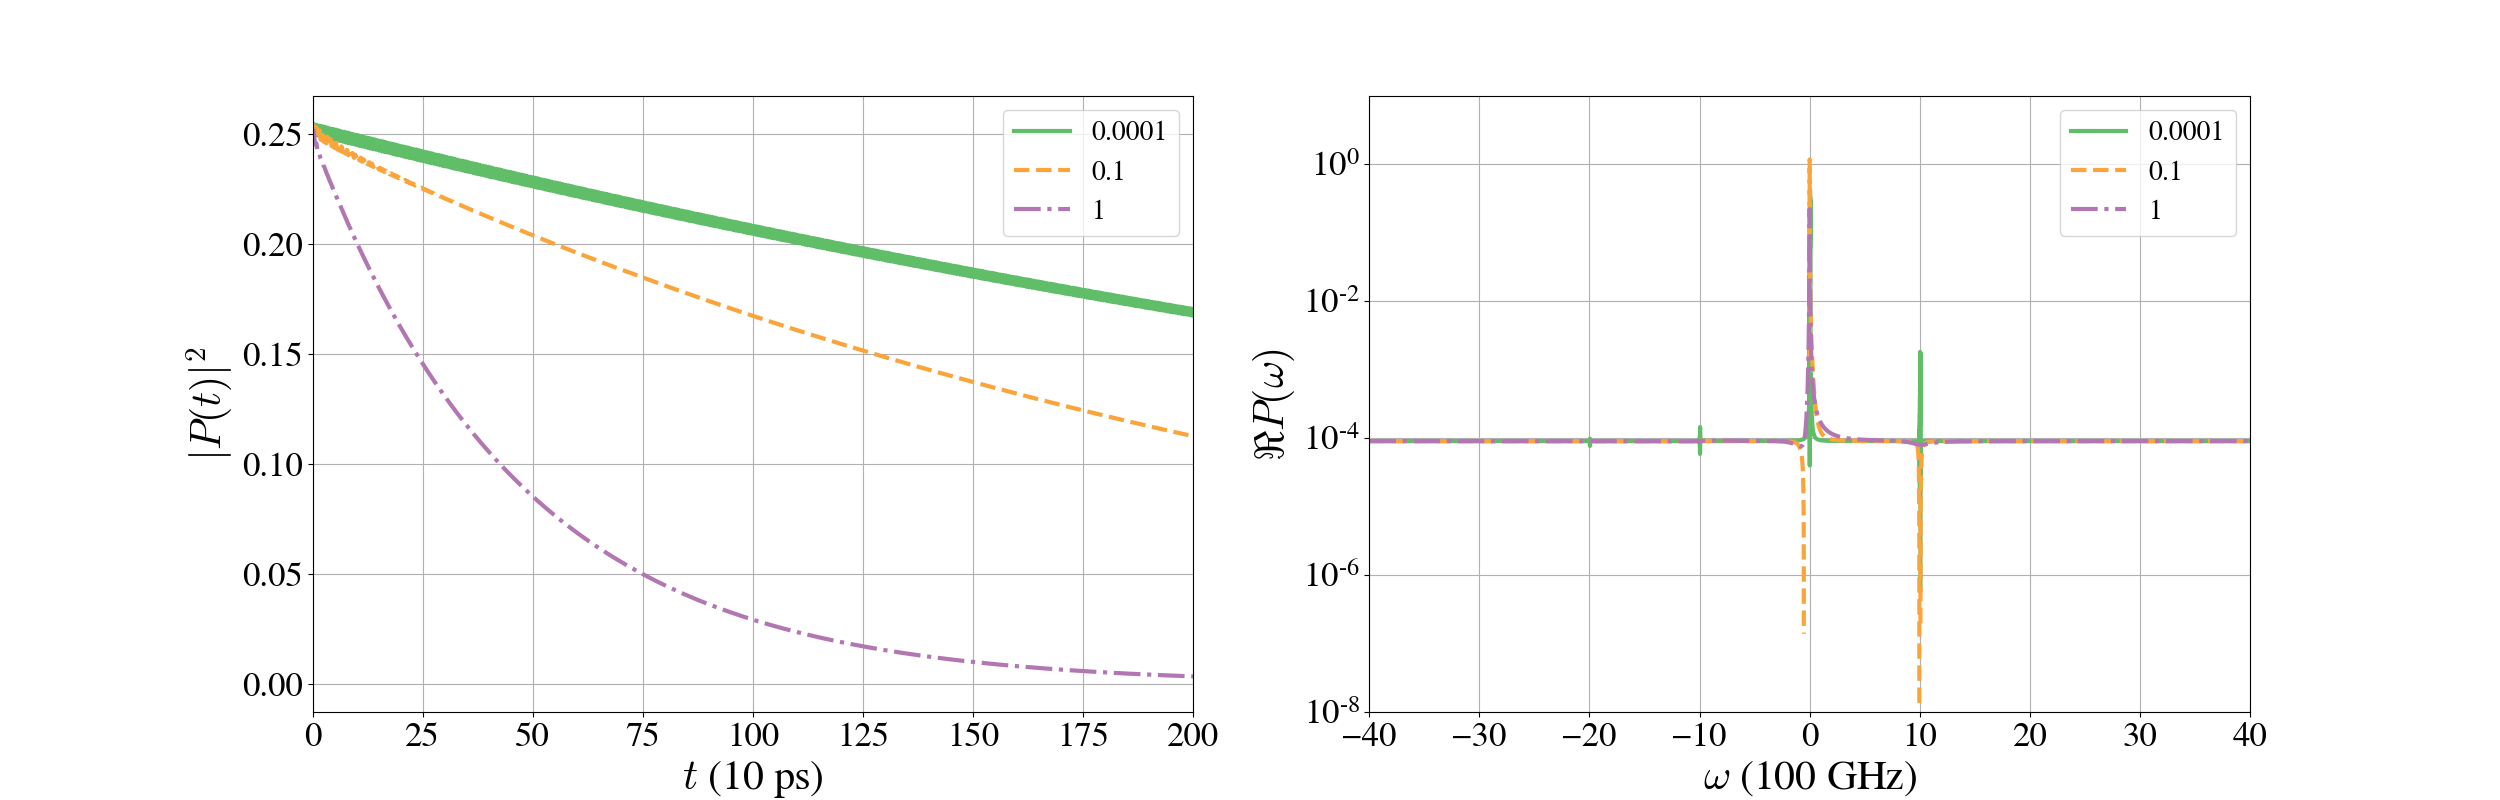
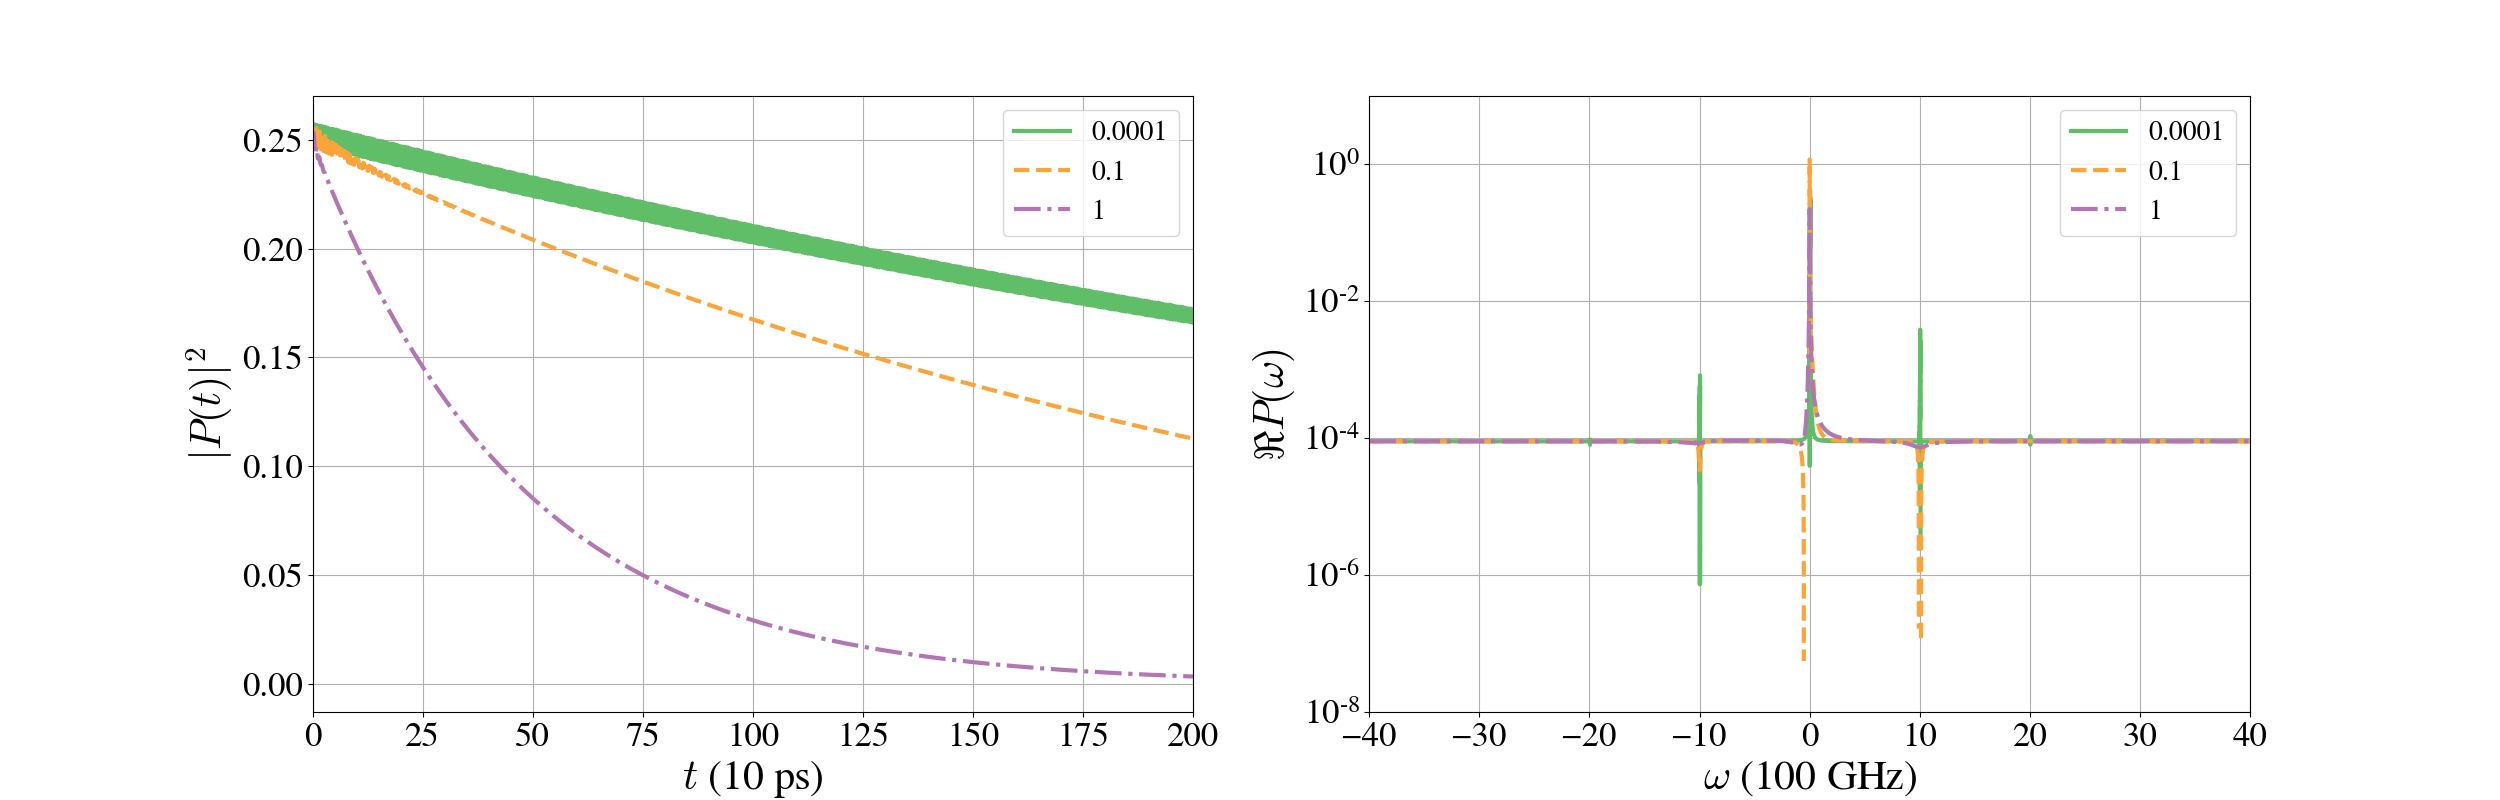
forgotten GkNk in phi

diff --git a/fbm_fbTest.py b/fbm_fbTest.py
@@ -1,6 +1,6 @@
 #!/usr/bin/python3.4
 import matplotlib as mpl
-mpl.use('Agg')
+#mpl.use('Agg')
 import numpy as np
 import matplotlib.pyplot as plt
 import time
@@ -33,7 +33,7 @@ def rho_fb(D, gam, oma, kappa, nd, endt, Nt, tau, k, therm, Fock):
 	dk  = k[1]-k[0]
 	c   = 0.003
 	g0  = np.sqrt(kappa*2*c/np.pi)
-	gk  = g0*np.sin(k*c*tau*dt)
+	gk  = g0#*np.sin(k*c*tau*dt)
 	A   = -1j*c*k
 	B   = 1j*oma + kappa
 	Br  = 1/B
@@ -91,29 +91,31 @@ def rho_fb(D, gam, oma, kappa, nd, endt, Nt, tau, k, therm, Fock):
 		rho_final[it] = .5 * np.exp( cav  + bath - 1j*Phi - gam*it*dt )				
 
 	t=np.linspace(0,endt,Nt)
-	print("cav",cav)
-	cavc = -.5*D**2/oma**2 * ( 1 + np.exp(-kappa*t[-1]) - 2*np.exp(-2*kappa*t[-1])*np.cos(oma*t[-1]) )
-	print("cavc", cavc)
-	print("F",F[-1])
-	Fc = D*np.exp(-B*t[-1])
-	print("Fc",Fc)
-	print("Gk",Gk)
-	Gkc = -1j*gk*D/(A+B) * ( np.exp(A*t[-1]) - np.exp(-B*t[-1]) )
-	print("Gkc",Gkc)
-	print("Nk",Nk)
+	print("t-tc",it*dt-t[-1])
+#	print("tc",t[-1])
+#	print("cav",cav)
+	cavc = -.5*D**2/oma**2 * ( 1 + np.exp(-2*kappa*t[-1]) - 2*np.exp(-kappa*t[-1])*np.cos(oma*t[-1]) )
+	print("cav-cavc", cav-cavc)
+#	print("F",F[-1])
+#	Fc = D*np.exp(-B*t[-1])
+#	print("F-Fc",F[-1]-Fc)
+#	print("Gk",Gk)
+#	Gkc = -1j*gk*D/(A+B) * ( np.exp(A*t[-1]) - np.exp(-B*t[-1]) )
+#	print("Gk-Gkc",Gk-Gkc)
+#	print("Nk",Nk)
 	Nkc = 1j*gk*D/(A*B) * ( 1 - 1/(A+B)*( A*np.exp(-B*t[-1])+B*np.exp(A*t[-1]) ) )
-	print("Nkc",Nkc)
+	print("Nk-Nkc",Nkc)
 	print("bath",bath)
 	integ = np.abs(D/B)**2*(2*kappa*t[-1] + (1-np.exp(-2*kappa*t[-1])) +2*kappa/np.abs(B)**2*(-2*kappa+np.conjugate(B)*np.exp(-B*t[-1])+B*np.exp(-np.conjugate(B)*t[-1])))
 	bathc=-integ
 	print("bathc",bathc)
-	Nka = np.abs(Nk)**2
-	print("Nka2",Nka)
-	Nkc2 = np.abs(g0*D/A/B)**2*( 1 - 1/np.abs(A+B)**2* ( np.abs(A)**2*(2*np.cos(oma*t[-1])-np.exp(-kappa*t[-1])) * np.exp(-kappa*t[-1]) +\
-							np.abs(B)**2*(2*np.cos(c*k*t[-1])-1)-\
-							2*oma*c*k*( ( np.cos(oma*t[-1])-np.cos((oma-c*k)*t[-1]))*np.exp(-kappa*t[-1] ) + np.cos(c*k*t[-1]) )-
-							2*kappa*c*k*( ( np.sin(oma*t[-1])-np.sin((oma-c*k)*t[-1]))*np.exp(-kappa*t[-1] ) - np.sin(c*k*t[-1]) ) ) )
-	print("Nkc2",Nkc2)
+#	Nka = np.abs(Nk)**2
+#	print("Nka2",Nka)
+#	Nkc2 = np.abs(gk*D/A/B)**2*( 1 - 1/np.abs(A+B)**2* ( np.abs(A)**2*(2*np.cos(oma*t[-1])-np.exp(-kappa*t[-1])) * np.exp(-kappa*t[-1]) +\
+#							np.abs(B)**2*(2*np.cos(c*k*t[-1])-1)-\
+#							2*oma*c*k*( ( np.cos(oma*t[-1])-np.cos((oma-c*k)*t[-1]))*np.exp(-kappa*t[-1] ) + np.cos(c*k*t[-1]) )-
+#							2*kappa*c*k*( ( np.sin(oma*t[-1])-np.sin((oma-c*k)*t[-1]))*np.exp(-kappa*t[-1] ) - np.sin(c*k*t[-1]) ) ) )
+#	print("Nkc2",Nkc2)
 	
 	print("phi",Phi)
 	phic = np.abs(D/B)**2 * ( np.exp(-kappa*t[-1])*np.sin(oma*t[-1]) - oma/2/kappa*(1-np.exp(-2*kappa*t[-1])) )
@@ -124,7 +126,7 @@ def rho_fb(D, gam, oma, kappa, nd, endt, Nt, tau, k, therm, Fock):
 ### PARAMETERS ###
 ##################
 Fock   = False
-show   = False
+show   = True
 
 D      = .7
 oma    = 10 #in GHz
@@ -134,12 +136,12 @@ hbar   = 6.62607004
 kb     = 1.38064852
 T      = 0.00001
 nd     = 1./(np.exp(hbar*oma/kb/T)-1)
-endt   = 20000.
-Nt     = 2**18
+endt   = 2000.
+Nt     = 2**15
 t      = np.linspace(0,endt,Nt)
 tau    = 10*Nt
 endk   = 5000.
-Nk     = 40000
+Nk     = 400
 ome    = 0.
 k      = np.linspace(-endk,endk,Nk)# + ome*100.
 therm  = hbar/(kb*T)

diff --git a/fbm_Fock-therm_numeric.py b/fbm_Fock-therm_numeric.py
@@ -39,17 +39,30 @@ def rho_d(gd, gam, oma, kappa, nd, endt, Nt, k, therm, Fock):
 	#################
 	### |N_d^k|^2 ###
 	#################
-	def Nd2k(k,ex,Ca,Sa):
+	def Nd2k(k,ex,Ca,Sa,Ck,Sk,Cak,Sak):
 
 		cof = coef*g02/(c*k)**2
 		den = 1/(kappa**2+(oma-c*k)**2)
-		Ck  = np.cos(c*k*t)
-		Sk  = np.sin(c*k*t)
 		A2  = (c*k)**2 * (2*Ca-ex) * ex
 		B2  = (kappa**2+oma**2) * (2*Ck-1)
-		AB  = oma*(Ck+(Ca-Ca*Ck-Sk*Sa)*ex) + kappa*(-Sk+(Sa-Sa*Ck+Sk*Ca)*ex)
+		AB  = oma*(Ck+(Ca-Cak)*ex) + kappa*(-Sk+(Sa-Sak)*ex)
 
 		return cof * ( 1 - den*(A2 + B2 - 2*c*k*AB) )
+
+	def phif(k,ex,Ca,Sa,Ck,Sk,Cak,Sak):
+
+		den = 1/np.abs(B-1j*c*k)**2
+		Ck  = np.cos(c*k*t)
+		Sk  = np.sin(c*k*t)
+		dc  = 1/(c*k)
+		dB  = 1/np.abs(B)**2 
+		t1  = -dc**2*(c*k*t-Sk)
+		t2  = dB * ( dc*(kappa*Sk-oma*Ck-(kappa*Sa+oma*Ca)*ex) \
+			     +Sa*ex - oma/(2*kappa)*(1-ex) )
+		t3  = den*( dc * ( kappa+(kappa*Sak + (oma-c*k)*Cak)*ex ) +\
+			    dB * ( kappa*(2*oma-c*k)*(1-Cak*ex) - (kappa**2-oma*(oma-c*k))*Sak ) )
+		
+		return g02*gd**2*den * (t1+t2+t3)
 
 	nk = 1/(np.exp(therm*c*np.abs(k))-1)
 	
@@ -63,18 +76,22 @@ def rho_d(gd, gam, oma, kappa, nd, endt, Nt, k, therm, Fock):
 		ex   = np.exp(-kappa*t)
 		Ca   = np.cos(oma*t)
 		Sa   = np.sin(oma*t)
-
-		gamma2  = coef * ( 1 + ex**2 - 2*ex*Ca ) #|gamma|^2
-#		rho_cav = (1 + gamma2) * np.exp(- 0.5* gamma2)
+		Ck   = np.cos(c*k*t)
+		Sk   = np.sin(c*k*t)
+		Cak  = Ca*Ck+Sa*Sk
+		Sak  = Sa*Ck - Ca*Sk
+		Fg   = coef * ( Sa*ex + oma/(2*kappa)*(ex**2-1) )	
 		
-		ksum = np.sum(Nd2k(k,ex,Ca,Sa)*(2*nk+1)*dk)			
-#		rho_bath = np.exp(-.5*(ksum))
+		gamma2  = coef * ( 1 + ex**2 - 2*ex*Ca ) #|gamma|^2
+		
+		ksum_b = np.sum(Nd2k(k,ex,Ca,Sa,Ck,Sk,Cak,Sak)*(2*nk+1)*dk)
+		
+		ksum_p = np.sum(phif(k,ex,Ca,Sa,Ck,Sk,Cak,Sak)*dk)
 
-		rho_phi  = np.exp( -1j * coef * ( ex*Sa- oma/2/kappa*(1-ex**2) ) )
 		if Fock==True:
-			rho_final[it] = .5 * (1+gamma2) * np.exp( - 0.5*(gamma2+ksum) - 1j * coef * ( ex*Sa- oma/2/kappa*(1-ex**2) ) - 1j*ome*t - gam*t)
+			rho_final[it] = .5 * (1+gamma2) * np.exp( - 0.5*(gamma2+ksum_b) - 1j * (ksum_p+Fg) - 1j*ome*t - gam*t)
 		else:
-			rho_final[it] = .5 * np.exp( - 0.5*(gamma2*(2*nd+1)+ksum) - 1j * coef * ( ex*Sa- oma/2/kappa*(1-ex**2) ) - 1j*ome*t - gam*t)
+			rho_final[it] = .5 * np.exp( - 0.5*(gamma2*(2*nd+1)+ksum_b) - 1j * (ksum_p+Fg) - 1j*ome*t - gam*t)
 
 	return rho_final
 
@@ -93,7 +110,7 @@ kb     = 1.38064852
 T      = 3000.#00001
 nd     = 1./(np.exp(hbar*oma/kb/T)-1)
 endt   = 20000.
-Nt     = 2**18
+Nt     = 2**14
 t      = np.linspace(0,endt,Nt)
 endk   = 5000.
 Nk     = 10000

diff --git a/fbm_damped_analytic2.py b/fbm_damped_analytic2.py
@@ -22,7 +22,7 @@ def rho_damp_T(D, gamma, oma, kappa, nd, t):
 	B    = 1j*oma + kappa
 	dBa2 = 1/(oma**2 + kappa**2)
 
-	return np.exp(- D**2 * dBa2 * ( nd*(1+np.exp(-2*kappa*t)) + .5*(3-np.exp(-2*kappa*t)) + 1j*np.sin(oma*t)*np.exp(-kappa*t) - np.exp(-kappa*t)*np.cos(oma*t)*(1+2*nd) - 1j*oma/2/kappa*(1-np.exp(-2*kappa*t)) + 2*kappa*t + 2*kappa*dBa2*(-2*kappa+ B*np.exp(-np.conjugate(B)*t) + np.conjugate(B)*np.exp(-B*t))))* np.exp(-gamma*t)*.5
+	return np.exp(- D**2 * dBa2 * ( nd*(1+np.exp(-2*kappa*t)) + .5*(3-np.exp(-2*kappa*t)) + 1j*(oma**2-3*kappa**2)*dBa2*np.sin(oma*t)*np.exp(-kappa*t) - np.exp(-kappa*t)*np.cos(oma*t)*(1+2*nd+1j*4*oma*kappa*dBa2) - 1j*oma/2/kappa*(1-np.exp(-2*kappa*t)) + 2*kappa*t + 2*kappa*dBa2*(-2*np.conjugate(B)+ B*np.exp(-np.conjugate(B)*t) + np.conjugate(B)*np.exp(-B*t))))* np.exp(-gamma*t)*.5
 #	return np.exp(-D**2*dBa2*(.5*(1-1j*oma/kappa)*(1-np.exp(-2*kappa*t))+1j*np.exp(-kappa*t)*np.sin(oma*t)-np.exp(-kappa*t)*np.cos(oma*t)-dBa2*(oma**2-3*kappa**2+2*kappa*(B*np.exp(-np.conjugate(B)*t)+np.conjugate(B)*np.exp(-B*t)))))*.5*np.exp(-gamma*t)
 
 def rho_damp_F(D, gamma, oma, kappa, nd, t):
@@ -31,9 +31,9 @@ def rho_damp_F(D, gamma, oma, kappa, nd, t):
 	dBa2 = 1/(oma**2 + kappa**2)
 
 	return (1 + D**2*dBa2*( 1+np.exp(-2*kappa*t)-np.exp(-kappa*t)*2*np.cos(oma*t) )) * \
-	np.exp(- D**2 * dBa2 * ( .5*(3-np.exp(-2*kappa*t)) + 1j*np.sin(oma*t)*np.exp(-kappa*t) - \
-	np.exp(-kappa*t)*np.cos(oma*t) - 1j*oma/2/kappa*(1-np.exp(-2*kappa*t)) + 2*kappa*t + \
-	2*kappa*dBa2*(-2*kappa+ B*np.exp(-np.conjugate(B)*t) + np.conjugate(B)*np.exp(-B*t))))* np.exp(-gamma*t)*.5
+	np.exp(- D**2 * dBa2 * ( .5*(3-np.exp(-2*kappa*t)) + 1j*(oma**2-3*kappa**2)*dBa2*np.sin(oma*t)*np.exp(-kappa*t) - \
+	np.exp(-kappa*t)*np.cos(oma*t)*1j*4*oma*kappa*dBa2 - 1j*oma/2/kappa*(1-np.exp(-2*kappa*t)) + 2*kappa*t + \
+	2*kappa*dBa2*(-2*np.conjugate(B)+ B*np.exp(-np.conjugate(B)*t) + np.conjugate(B)*np.exp(-B*t))))* np.exp(-gamma*t)*.5
 
 def rho_nodamp_T(D, gamma, oma,nd, t):
 	return np.exp(-D**2/oma**2*((2*nd+1)*(1-np.cos(oma*t))+1j*np.sin(oma*t)-1j*oma*t))*.5*np.exp(-gamma*t)
@@ -44,8 +44,8 @@ def rho_nodamp_F(D, gamma, oma,nd, t):
 ##################
 ### PARAMETERS ###
 ##################
-damp  = False
-Fock  = True
+damp  = True
+Fock  = False
 show  = False
 T     = 0.00001
 
